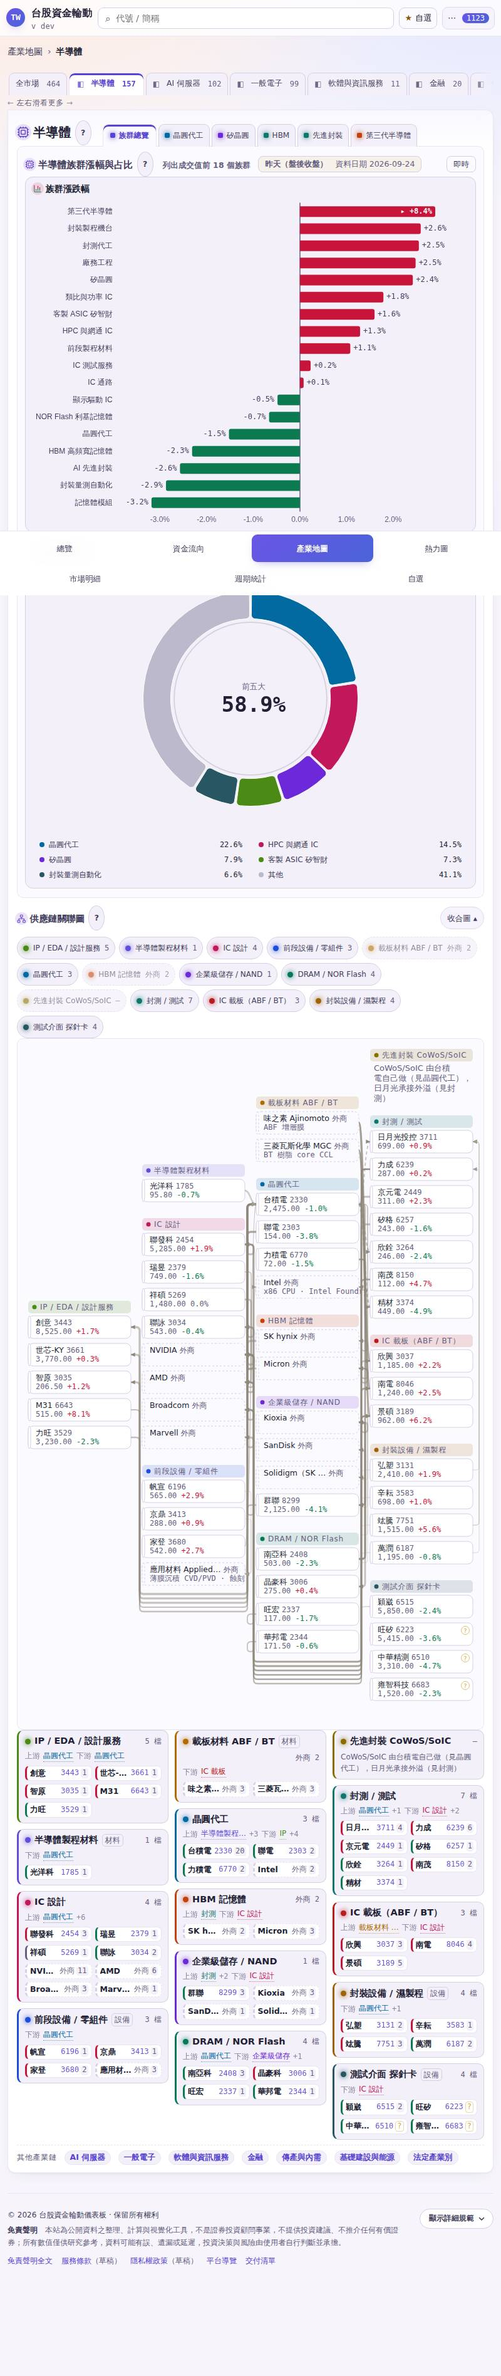
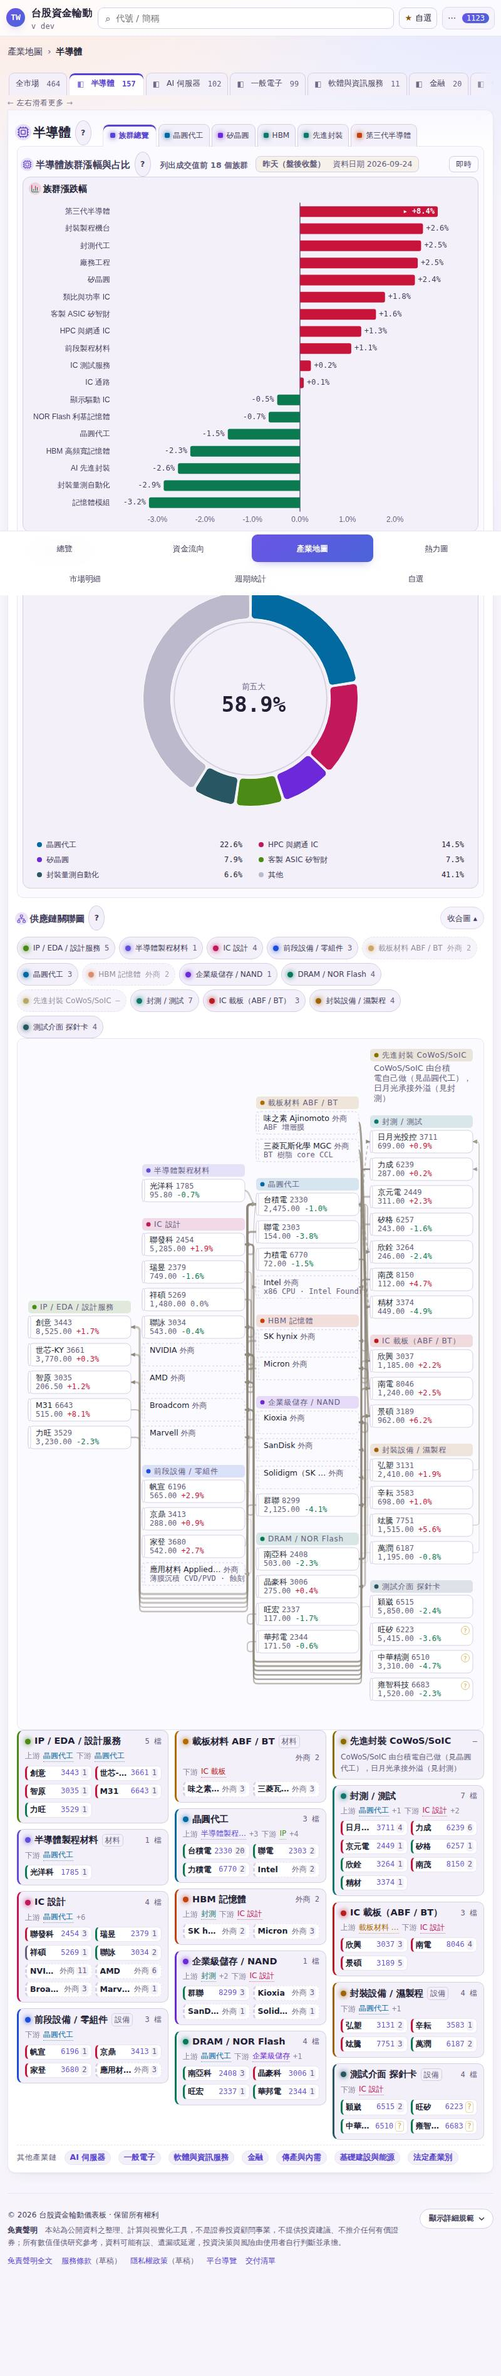
設計 v4 2B 收尾：04 文件定稿（改前→改後量測、三主題截圖、驗收段落、待處理）、HANDOFF
Claude-Session: https://claude.ai/code/session_01Ec3nixKoDJAmaCQB9Rr9xU

diff --git a/docs/design_v4/04_第二批2B.md b/docs/design_v4/04_第二批2B.md
@@ -22,6 +22,7 @@
 | ⑩ | 供應鏈關聯圖的「環節：全部 ▾」下拉 | 標題列下面自己一列（≈41px） | 桌機（≥821，下拉只有桌機是一顆鈕）搬進「供應鏈關聯圖」標題列、標題右邊；≤820 搬回原位（那裡是一排色標）。id、事件、選取邏輯一行都沒換 | `industry.js`（renderChain）、`theme4.css` |
 | ⑪ | 12px 下限（產業頁） | 活頁簿分頁上的檔數 11.5、關聯圖公司卡（展開）第二行的代號／股價／漲跌 11 | 12（桌機）。關聯圖卡片的字寬本來就用畫布實際量、欄寬 136～260，放得下 | `theme4.css` |
 | ⑫ | 產業頁間距套 v4 尺度 | 族群總覽卡片內距 10／12／8、`.nbbody` 10／12／14、關聯圖區塊上距 16 | 8／12／8、8／12／12、12（全部落在 4／8／12／16／24）。`.nbbody` 上內距原本想用 12，量過 800 寬剖析圖第一屏少 0.7 個百分點（退步），改成 8 | `theme4.css` |
+| ⑬ | 收尾修正：個股頁 HTML 圖例（①） | 點了之後狀態沒記住（聽錯 ECharts 事件名），切 12／24 月重畫後藏起來的線跑回來；只在視窗縮放時重量；手機也搬進標題列 | 先記狀態再送 action、三種選取事件都聽；盯標題列本身的尺寸重量；手機（≤640）不搬圖例、大戶／散戶色塊留在標題下面（DOM 跟改前一樣） | `industry.js`（extLegend、tabHolders） |
 
 **刻意沒動**：`--dg-*`（剖析圖，art-director）與剖析圖內部版面、供應鏈關聯圖 SVG 的版面演算法（關聯圖左上的空白是「每欄各自垂直置中」造成的：SVG 總高由最高那一欄決定，改成頂端對齊只是把空白從上面搬到下面、總高不變，第一屏繪圖區也不會變，所以不動；`_uitest` 還有一整串依位置寫的斷言）、關聯圖框裡的「全部展開／收合」列（驗收一律用 `#chainMap .foldbar` 找它，而且那列同時是 SVG 上方的留白，搬走要連 `padY` 一起改、第一屏只多 6px）、產業地圖的麵包屑（「產業地圖 › 半導體」：程式註解明講更深的層級是導覽不是標題）、手機（≤640）版面、AI 分析區塊（`blocks/stock_ai.js`，內容區 132px 是它自己的規格，`_uitest`「AI 分析」要求 120～420）、`app.js`／`index.html`／`live.js`（另外兩位 agent 在改）。
 
@@ -40,15 +41,79 @@
 
 （`卡頂→圖`＝卡片頂到卡片裡第一張圖的繪圖區頂端，中位數；空白帶％改前改後都一樣，第一批已經歸零，只列有差的）
 
-__TABLE__
+| 頁面 | 寬 | 第一屏繪圖區 % | 整頁繪圖區 % | 頁高 px | 空白帶 % | 卡頂→圖 px | 分頁區頂 px | 分頁區繪圖 % | 分頁卡頂→圖 px |
+|---|---|---|---|---|---|---|---|---|---|
+| 個股・總覽 | 1440 | 48.9 → **52.8**（+3.9） | 33.0 → **33.9**（+0.9） | 1788 → **1749**（-39） | 0.0 → **0.0** | 285 → **247**（-38） | 1205 → **1166**（-39） | 0.0 → **0.0** | None → None |
+| 個股・總覽 | 1100 | 43.7 → **43.7** | 29.8 → **30.0**（+0.2） | 1886 → **1885**（-1） | 0.0 → **0.0** | 321 → **320**（-1） | 1240 → **1239**（-1） | 0.0 → **0.0** | None → None |
+| 個股・總覽 | 800 | 36.4 → **41.6**（+5.2） | 24.3 → **24.9**（+0.6） | 2203 → **2145**（-58） | 1.6 → **1.6** | 403 → **346**（-57） | 1288 → **1230**（-58） | 0.0 → **0.0** | None → None |
+| 個股・總覽 | 390 | 32.2 → **32.2** | 22.1 → **22.1** | 1229 → **1229** | 0.0 → **0.0** | 118 → **118** | None → None | None → None | None → None |
+| 個股・營收 | 1440 | 48.9 → **52.8**（+3.9） | 32.7 → **34.8**（+2.1） | 2288 → **2250**（-38） | 0.0 → **0.0** | 119 → **99**（-20） | 1205 → **1166**（-39） | 18.6 → **22.3**（+3.7） | 119 → **99**（-20） |
+| 個股・營收 | 1100 | 43.7 → **43.7** | 29.9 → **31.2**（+1.3） | 2358 → **2357**（-1） | 0.0 → **0.0** | 153 → **153** | 1240 → **1239**（-1） | 16.5 → **19.6**（+3.1） | 153 → **153** |
+| 個股・營收 | 800 | 36.4 → **41.6**（+5.2） | 29.6 → **31.4**（+1.8） | 2904 → **2846**（-58） | 1.1 → **1.1** | 135 → **115**（-20） | 1288 → **1230**（-58） | 26.0 → **28.6**（+2.6） | 134 → **115**（-19） |
+| 個股・營收 | 390 | 32.2 → **32.2** | 22.1 → **22.1** | 1229 → **1229** | 0.0 → **0.0** | 118 → **118** | None → None | None → None | None → None |
+| 個股・獲利 | 1440 | 48.9 → **52.8**（+3.9） | 36.8 → **37.6**（+0.8） | 2715 → **2676**（-39） | 0.0 → **0.0** | 105 → **105** | 1205 → **1166**（-39） | 32.2 → **32.7**（+0.5） | 105 → **105** |
+| 個股・獲利 | 1100 | 43.7 → **43.7** | 32.8 → **33.9**（+1.1） | 2893 → **2892**（-1） | 0.0 → **0.0** | 151 → **151** | 1240 → **1239**（-1） | 27.6 → **29.7**（+2.1） | 105 → **105** |
+| 個股・獲利 | 800 | 36.4 → **41.6**（+5.2） | 32.9 → **33.5**（+0.6） | 3329 → **3271**（-58） | 1.0 → **1.0** | 113 → **113** | 1288 → **1230**（-58） | 33.6 → **33.4**（-0.2） | 112 → **113**（+1） |
+| 個股・獲利 | 390 | 32.2 → **32.2** | 22.1 → **22.1** | 1229 → **1229** | 0.0 → **0.0** | 118 → **118** | None → None | None → None | None → None |
+| 個股・除權息 | 1440 | 48.9 → **52.8**（+3.9） | 36.1 → **37.8**（+1.7） | 1852 → **1814**（-38） | 0.0 → **0.0** | 285 → **247**（-38） | 1205 → **1166**（-39） | 18.9 → **21.9**（+3.0） | 75 → **57**（-18） |
+| 個股・除權息 | 1100 | 43.7 → **43.7** | 33.6 → **33.9**（+0.3） | 1888 → **1887**（-1） | 0.0 → **0.0** | 321 → **320**（-1） | 1240 → **1239**（-1） | 17.5 → **17.8**（+0.3） | 75 → **75** |
+| 個股・除權息 | 800 | 36.4 → **41.6**（+5.2） | 29.3 → **30.4**（+1.1） | 2389 → **2346**（-43） | 1.4 → **1.4** | 403 → **346**（-57） | 1288 → **1230**（-58） | 21.9 → **23.7**（+1.8） | 68 → **65**（-3） |
+| 個股・除權息 | 390 | 32.2 → **32.2** | 22.1 → **22.1** | 1229 → **1229** | 0.0 → **0.0** | 118 → **118** | None → None | None → None | None → None |
+| 個股・法人 | 1440 | 48.9 → **52.8**（+3.9） | 37.7 → **39.3**（+1.6） | 2199 → **2161**（-38） | 0.0 → **0.0** | 285 → **247**（-38） | 1205 → **1166**（-39） | 31.4 → **33.7**（+2.3） | 79 → **59**（-20） |
+| 個股・法人 | 1100 | 43.7 → **43.7** | 35.3 → **36.2**（+0.9） | 2235 → **2234**（-1） | 0.0 → **0.0** | 321 → **320**（-1） | 1240 → **1239**（-1） | 30.0 → **32.1**（+2.1） | 79 → **59**（-20） |
+| 個股・法人 | 800 | 36.4 → **41.6**（+5.2） | 30.9 → **32.3**（+1.4） | 2406 → **2349**（-57） | 1.4 → **1.4** | 403 → **346**（-57） | 1288 → **1230**（-58） | 27.3 → **29.2**（+1.9） | 87 → **67**（-20） |
+| 個股・法人 | 390 | 32.2 → **32.2** | 22.1 → **22.1** | 1229 → **1229** | 0.0 → **0.0** | 118 → **118** | None → None | None → None | None → None |
+| 個股・資券 | 1440 | 48.9 → **52.8**（+3.9） | 37.8 → **39.5**（+1.7） | 2199 → **2161**（-38） | 0.0 → **0.0** | 285 → **247**（-38） | 1205 → **1166**（-39） | 31.8 → **34.1**（+2.3） | 79 → **59**（-20） |
+| 個股・資券 | 1100 | 43.7 → **43.7** | 35.5 → **36.4**（+0.9） | 2235 → **2234**（-1） | 0.0 → **0.0** | 321 → **320**（-1） | 1240 → **1239**（-1） | 30.5 → **32.7**（+2.2） | 79 → **59**（-20） |
+| 個股・資券 | 800 | 36.4 → **41.6**（+5.2） | 31.3 → **32.7**（+1.4） | 2406 → **2349**（-57） | 1.4 → **1.4** | 403 → **346**（-57） | 1288 → **1230**（-58） | 28.4 → **30.4**（+2.0） | 87 → **67**（-20） |
+| 個股・資券 | 390 | 32.2 → **32.2** | 22.1 → **22.1** | 1229 → **1229** | 0.0 → **0.0** | 118 → **118** | None → None | None → None | None → None |
+| 個股・大戶／散戶 | 1440 | 48.9 → **52.8**（+3.9） | 37.2 → **39.0**（+1.8） | 2240 → **2155**（-85） | 0.0 → **0.0** | 285 → **247**（-38） | 1205 → **1166**（-39） | 30.4 → **32.7**（+2.3） | 125 → **79**（-46） |
+| 個股・大戶／散戶 | 1100 | 43.7 → **43.7** | 35.0 → **35.4**（+0.4） | 2275 → **2268**（-7） | 0.0 → **0.0** | 321 → **320**（-1） | 1240 → **1239**（-1） | 29.6 → **30.2**（+0.6） | 125 → **119**（-6） |
+| 個股・大戶／散戶 | 800 | 36.4 → **41.6**（+5.2） | 31.2 → **31.9**（+0.7） | 2446 → **2383**（-63） | 1.4 → **1.4** | 403 → **346**（-57） | 1288 → **1230**（-58） | 28.3 → **28.5**（+0.2） | 133 → **127**（-6） |
+| 個股・大戶／散戶 | 390 | 32.2 → **32.2** | 22.1 → **22.1** | 1229 → **1229** | 0.0 → **0.0** | 118 → **118** | None → None | None → None | None → None |
+| 產業地圖 | 1440 | 41.5 → **41.5** | 34.7 → **38.7**（+4.0） | 1077 → **965**（-112） | 0.0 → **0.0** | 122 → **79**（-43） | None → None | None → None | None → None |
+| 產業地圖 | 1100 | 38.1 → **38.1** | 31.8 → **35.5**（+3.7） | 1077 → **965**（-112） | 0.0 → **0.0** | 122 → **79**（-43） | None → None | None → None | None → None |
+| 產業地圖 | 800 | 41.6 → **43.2**（+1.6） | 41.1 → **43.1**（+2.0） | 1794 → **1712**（-82） | 0.0 → **0.0** | 138 → **127**（-11） | None → None | None → None | None → None |
+| 產業地圖 | 390 | 19.7 → **19.7** | 21.9 → **21.9** | 1866 → **1866** | 0.0 → **0.0** | 193 → **193** | None → None | None → None | None → None |
+| 產業鏈・半導體 | 1440 | 65.1 → **68.4**（+3.3） | 60.8 → **63.8**（+3.0） | 1857 → **1777**（-80） | 0.0 → **0.0** | 127 → **93**（-34） | None → None | None → None | None → None |
+| 產業鏈・半導體 | 1100 | 63.7 → **66.9**（+3.2） | 61.6 → **64.2**（+2.6） | 1967 → **1888**（-79） | 0.0 → **0.0** | 127 → **93**（-34） | None → None | None → None | None → None |
+| 產業鏈・半導體 | 800 | 55.2 → **59.4**（+4.2） | 76.5 → **77.2**（+0.7） | 4552 → **4506**（-46） | 0.0 → **0.0** | 345 → **303**（-42） | None → None | None → None | None → None |
+| 產業鏈・半導體 | 390 | 37.6 → **37.6** | 83.6 → **83.6** | 2364 → **2364** | 0.0 → **0.0** | 323 → **323** | None → None | None → None | None → None |
+| 產業鏈・一般電子 | 1440 | 65.1 → **68.4**（+3.3） | 57.4 → **60.2**（+2.8） | 1671 → **1592**（-79） | 0.0 → **0.0** | 127 → **93**（-34） | None → None | None → None | None → None |
+| 產業鏈・一般電子 | 1100 | 63.7 → **64.9**（+1.2） | 58.2 → **61.1**（+2.9） | 1772 → **1692**（-80） | 0.0 → **0.0** | 127 → **93**（-34） | None → None | None → None | None → None |
+| 產業鏈・一般電子 | 800 | 55.2 → **55.2** | 71.5 → **71.5** | 3194 → **3188**（-6） | 0.0 → **0.0** | 289 → **287**（-2） | None → None | None → None | None → None |
+| 產業鏈・一般電子 | 390 | 37.6 → **37.6** | 89.2 → **89.2** | 2216 → **2216** | 0.0 → **0.0** | 323 → **323** | None → None | None → None | None → None |
+| 產業鏈・半導體（族群總覽） | 1440 | 39.7 → **39.7** | 46.9 → **51.4**（+4.5） | 1810 → **1652**（-158） | 0.0 → **0.0** | 199 → **122**（-77） | None → None | None → None | None → None |
+| 產業鏈・半導體（族群總覽） | 1100 | 36.0 → **36.0** | 46.2 → **50.4**（+4.2） | 1871 → **1713**（-158） | 0.0 → **0.0** | 199 → **122**（-77） | None → None | None → None | None → None |
+| 產業鏈・半導體（族群總覽） | 800 | 35.0 → **36.0**（+1.0） | 44.0 → **45.6**（+1.6） | 3919 → **3792**（-127） | 0.0 → **0.0** | 234 → **149**（-85） | None → None | None → None | None → None |
+| 產業鏈・半導體（族群總覽） | 390 | 10.7 → **10.7** | 11.8 → **11.8** | 2982 → **2982** | 0.0 → **0.0** | 306 → **306** | None → None | None → None | None → None |
+| 產業鏈・AI 伺服器 | 1440 | 65.1 → **68.4**（+3.3） | 65.3 → **67.8**（+2.5） | 2136 → **2057**（-79） | 0.0 → **0.0** | 127 → **93**（-34） | None → None | None → None | None → None |
+| 產業鏈・AI 伺服器 | 1100 | 63.7 → **66.9**（+3.2） | 66.5 → **68.9**（+2.4） | 2325 → **2245**（-80） | 0.0 → **0.0** | 127 → **93**（-34） | None → None | None → None | None → None |
+| 產業鏈・AI 伺服器 | 800 | 55.2 → **55.2** | 72.6 → **72.6** | 4740 → **4734**（-6） | 0.0 → **0.0** | 310 → **308**（-2） | None → None | None → None | None → None |
+| 產業鏈・AI 伺服器 | 390 | 37.6 → **37.6** | 94.2 → **94.2** | 2262 → **2262** | 0.0 → **0.0** | 323 → **323** | None → None | None → None | None → None |
 
 ### 2.2 逐張圖（1440）
 
-__CHARTS__
+| 圖 | 分頁 | 繪圖區頂 | 繪圖區佔容器 % | 圖例在容器裡 | 軸字最小 |
+|---|---|---|---|---|---|
+| revBar | 個股・營收 | 30 → **10**（-20） | 64.2 → **70.6**（+6.4） | 是 → 否 | 12 → **12** |
+| revYear | 個股・營收 | 30 → **10**（-20） | 67.7 → **76.2**（+8.5） | 是 → 否 | 12 → **12** |
+| peChart | 個股・獲利 | 24 → **24** | 75.8 → **75.8** | 否 → 否 | 12 → **12** |
+| profitChart | 個股・獲利 | 30 → **30** | 65.3 → **65.3** | 是 → 是 | 12 → **12** |
+| peQ | 個股・獲利 | 20 → **20** | 72.3 → **72.5**（+0.2） | 否 → 否 | 12 → **12** |
+| divBar | 個股・除權息 | 30 → **12**（-18） | 66.7 → **73.5**（+6.8） | 是 → 否 | 12 → **12** |
+| instChart | 個股・法人 | 30 → **10**（-20） | 73.7 → **79**（+5.3） | 是 → 否 | 12 → **12** |
+| marginChart | 個股・資券 | 30 → **10**（-20） | 74.9 → **80.3**（+5.4） | 是 → 否 | 12 → **12** |
+| holderChart | 個股・大戶／散戶 | 30 → **30** | 61.3 → **61.3** | 否 → 否 | 11 → **12** |
+| gpBar | 產業地圖 | 8 → **8** | 72.9 → **72.9** | 否 → 否 | 12 → **12** |
+| gpPie | 產業地圖 | None → None | 0 → **0** | 否 → 否 | None → None |
+| gpBar | 產業鏈・半導體（族群總覽） | 8 → **8** | 69.8 → **69.8** | 否 → 否 | 12 → **12** |
+| gpPie | 產業鏈・半導體（族群總覽） | None → None | 0 → **0** | 否 → 否 | None → None |
 
 ### 2.3 K 線（1440，個股頁第一屏）
 
-__KLINE__
+- 改前：面板高 [587, 96]、資料區頂（離面板頂）[47, 8]，副圖標籤（字、離圖頂 y、高、字級）[('成交量 1.5 萬張\u3000MA20 ', 595, 23, 12)]
+- 改後：面板高 [564, 119]、資料區頂（離面板頂）[45, 24]，副圖標籤（字、離圖頂 y、高、字級）[('成交量 1.5 萬張\u3000MA20 ', 569, 18, 12)]
 
 ### 2.4 怎麼讀
 
@@ -59,13 +124,17 @@ __KLINE__
    1100 寬營收、除權息兩張半寬卡、800 寬 EPS 也是同樣情形，數字持平；分頁區繪圖 % 仍然上升，是 ⑦（較矮那張的圖撐滿）的貢獻。
 4. **大戶／散戶**：1440 分頁卡頂→圖 125 → 79（-46）、頁高 -85。
 5. **800 獲利分頁的分頁區繪圖 % 33.6 → 33.4（-0.2）、分頁卡頂→圖 112 → 113**：三張圖的尺寸與繪圖區逐張比對完全一樣（`2b-*.json` 的 charts），差的 1px 在分頁區上方的數字卡列（字寬捨入）；不是版面退步，列在這裡不藏。
-6. **產業地圖、產業鏈：數字不變**。這兩頁本批只有軸字 11.5 → 12（族群長條），繪圖區量法不受影響；版面的空間在第一批已經收過（產業鏈 1440 第一屏 61.5 → 65.1）。
-7. **390 全部不變**（手機不在這一批，驗證用）。
+6. **產業地圖（⑧）：頁高 1077 → 965（-112）、卡頂→圖 122 → 79**，整頁繪圖區 34.7 → 38.7。1440／1100 第一屏持平（41.5／38.1）是正常的：改前整張族群總覽卡（長條＋甜甜圈）本來就完整落在第一屏裡（卡底 860 < 900），省下來的三列變成「卡片短了一截、頁尾上來」，圖本身沒有變大。800 寬第一屏 41.6 → 43.2（堆疊的兩張卡往上 11px）。
+7. **產業鏈族群總覽分頁（⑧⑨⑩ 都在這一頁）：卡頂→圖 199 → 122（-77）、頁高 -158**；1440 改前長條卡底貼在 877、下面再一條空白列才到卡底 930，改後整張卡在 818 收掉，第一屏看得到關聯圖的標題列與下拉。第一屏繪圖區持平的理由同上（兩張圖改前就整張在第一屏）。
+8. **產業鏈（預設剖析圖分頁）：第一屏 1440 65.1 → 68.4、1100 63.7 → 66.9、800 半導體 55.2 → 59.4**（⑨ 標題與分頁同一列，剖析圖往上 34px）。一般電子 1100 只 +1.2：那條鏈 1100 寬放得下同列、但剖析圖本身比視窗矮，往上移的部分落在圖下方。
+9. **800 寬一般電子、AI 伺服器：⑨ 放不下（分頁 7～9 顆＋標題 > 卡寬），照改前兩列**，第一屏持平（55.2 → 55.2），頁高 -6（`.nbbody` 上下內距）。第一版把 `.nbbody` 左右內距也統一成 12，量到這兩頁 55.2 → 54.9（641～820 原本左右 8，多出的 4px 把剖析圖的引線層擠窄）——退步，改成只動上下內距，重量後持平（上表）。
+10. **390 全部不變**（手機不在這一批，驗證用；⑧⑩ 的搬位置在 ≤640／≤820 用 matchMedia 搬回改前的位置）。
 
 ## 3. 三主題 × 深淺
 
-截圖：`shots/2b-{casual-light|hud-dark|pro-light}-{stock|industry|chain}-{1440|1100|800|390}.jpg`（36 張）、另三組（休閒深、HUD 淺、專業深）個股頁 1440、改前 `shots/2b-before-hud-dark-stock-*.jpg`。
-個股頁一律開在「營收」分頁（新圖例最多的一頁）。
+截圖：`shots/2b-{casual-light|hud-dark|pro-light}-{stock|industry|chain}-{1440|1100|800|390}.jpg`（36 張，整頁）、另三組明暗（`2b-casual-dark`／`2b-hud-light`／`2b-pro-dark`）的個股頁與產業鏈 1440、改前 `shots/2b-before-hud-dark-{stock|industry|chain}-*.jpg`（12 張，origin/main `fa2a991`）。
+個股頁一律開在「營收」分頁（新圖例最多的一頁）；`chain`＝`#industry/semiconductor/overview`（族群總覽＋關聯圖，⑧⑨⑩ 同時在畫面上）。
+產業頁（⑧～⑫）沒有新增任何色碼：資料狀態膠囊沿用 `.livenote` 原本的底色與字色、搬進標題列只改外距與內距；滑過讀數字色沿用 `.card .sub`（`--ink-3`，第一批量過六組主題 ≥ 4.5）。
 驗收段落「設計v4第二批2B」⑨ 在六組主題各開一次個股頁營收分頁：1440 沒有橫向捲軸、主題真的掛上、兩張營收圖的 HTML 圖例字對實際疊出來的底色對比 ≥ 4.5。
 沒有新增任何色碼：圖例色樣讀 ECharts 算好的系列顏色；紅買綠賣的雙色色樣用 `A.CH.up`／`A.CH.down`（跟著主題換）；EPS 雙色沿用那張圖本來寫死的兩個色。
 
@@ -77,16 +146,48 @@ __KLINE__
 4. **641～820 現價列小標不再是 36px 高**：它們是資訊標籤不是按鈕；觸控 36px 的規則（index.html 那段）是給篩選晶片的。
 5. **除權息年份縮成 'YY 的門檻從「容器 < 420」改成「一格放不下四位數」**：1100 寬半欄卡片也會縮（改前在那裡疊字）。
 6. **營收柱不標數字**：改前的自動標籤是原值（元，12 位數），不是設計；要標的話應該標「億」而且只標最新幾根，那是新功能，這一批不做。
+7. **產業地圖第一屏繪圖區沒有變大（只有頁高變短）**：省下的 112px 可以拿去把長條／甜甜圈撐到視窗底，但那要讓圖高跟著視窗高變（現在是依族群數 `n×26+56`），視窗一縮放就要重畫、長條會變胖。這一批只收空白、不改圖高；要的話下一批做成「圖高＝max(依族群數, 視窗剩餘高)」。
+8. **滑過讀數搬到「族群漲跌幅」卡片標題列右半邊**：1100 以下寬度會被省略號切掉尾巴（「點一下看它的個股」那段提示先被切）；同樣的數字滑過長條時提示框裡都有。改前它在圖下方獨佔一列、沒滑過時是一條 24px 空白。
+9. **鏈名標題與二層分頁同一列時，內容框左上角改成圓角**：分頁不再從最左邊開始，左上角維持直角會像缺一角。活頁簿「選中分頁與內容連成一片」的效果不受影響（選中那一格照樣疊在內容上緣）。
+10. **「環節：全部 ▾」搬進關聯圖標題列**：只有桌機；它跟「收合圖 ▴」現在在同一列的兩端。
 
 ## 5. 驗了哪幾段
 
-__GATES__
+收尾這一輪（2026-09-29 04:02～06:55 台北；分支已合併 origin/main `fa2a991`；`site/data` 沿用 09-28 13:08 那份、沒重算 —— 本批沒動 `pipeline/`、`groups/*.yaml`、`build_payload.py`）。
+純前端＋驗收腳本＋文件，pytest 依 CLAUDE.md 例外跳過（`git diff --name-only origin/main` 只有 `site/**`、`scripts/_uitest.py`、`docs/**`）。
+
+| 關卡 | 結果 |
+|---|---|
+| `_preview.py`（預設科技 HUD・深） | 綠（每改一次跑一次，共五次，最後一次在最後一個 commit 之後） |
+| `_uitest` 設計v4第二批2B（含收尾新加的 ⑩：產業地圖三列收進既有列、滑過讀數不跳版、縮到 600 搬回改前位置再拉回、產業鏈標題與分頁同列只在放得下時成立、標題列的環節下拉真的選得到一格、≤820 搬回、分頁檔數與關聯圖卡片字 ≥ 12） | 第一輪 13 紅（見下）→ 修完 0；之後每改一次重跑都是 0 |
+| `_uitest` 個股／新-產業與個股／營收河流0928／個股籌碼分頁0928／手機個股券商式／手機（最後一個 commit 之後） | 0 |
+| `_uitest` 產業／族群頁／產業鏈導覽／產業關係面板（產業頁最後一次 CSS 改動之後） | 0 |
+| `_uitest` K線縮放／設計v4主題（第一輪） | 0 |
+| `_uitest` 標題圖示 | **2 紅，沒收斂**（見下） |
+| `_uitest` 一般電子鏈 | 12 紅 ＝ **origin/main `fa2a991` 同一份資料一模一樣 12 紅**（`git archive` 出 main 整包、同一支 `_uitest.py` 跑） |
+| `_uitest` 排序 | 1 紅 ＝ **origin/main 同樣 1 紅**（`#candTable thead th[data-k="code"]` 等 30 秒點不到） |
+| `_uitest` 產業（任務單說 `#segBox` 是 main 既有紅） | 這一輪分支、main 各跑一次都是 0（沒有重現） |
+
+- **設計v4第二批2B 第一輪 13 紅＝重啟前那一版自己的缺陷，收尾修掉**：
+  1. 個股頁 HTML 圖例點了之後狀態沒記住：`extLegend` 只聽 `legendselectchanged`，但 ECharts 對 `legendSelect`／`legendUnSelect` 發的是 `legendselected`／`legendunselected` ——
+     按鈕的 `aria-pressed` 不變、切 12／24 月重畫之後藏起來的線又跑回來（**使用者踩得到的 bug**）。改成先記自己的狀態再送 action，三種事件都聽。
+  2. 放得下的圖例初始沒有標 `data-fit="row"`（`extLegFit` 只在狀態改變時寫）→ 驗收讀不到狀態。
+  3. 驗收的 `legShown` 要求 `legend.data` 非空，但這幾張圖的 option 沒寫 `data`（ECharts 自己列全部系列）→ 放不下時明明畫了圖例卻判成沒畫；②「EPS 與三率 1440 一定放得下」跟 §2.4 第 3 點的實測（1440 放不下、照改前畫）矛盾 —— 改成跟 ⑧ 同一個「放得下／放不下」判準。
+  4. 另外補兩件：圖例改成盯標題列本身的尺寸重量（標題圖示、日期是圖畫完才補進標題的，只在視窗縮放時量會「量的時候放得下、補完就被擠到下一行」）；手機（≤640）不搬圖例、大戶／散戶三顆色塊留在標題下面（DOM 跟改前一樣）。
+- **標題圖示 2 紅（沒收斂）**：`390 dark 個股／分頁 margin`（標題列 44 → 84）、`390 dark 個股／分頁 holders`（32 → 59），都是「藏掉圖示 vs 顯示圖示」同一刻的 A/B。
+  - 關鍵差異：**main 同一段在 390 量到的是「個股 0、只有手機分頁」**（券商式已經接手、桌機分頁列看不到），**分支這一段在 390 量到了桌機分頁（個股 3、分頁 tags…news）**——紅的兩條都發生在「390 寬卻看得到桌機分頁」這個狀態裡。
+  - 正常載入（390、載入後切主題、0.3／1.2／3／6 秒各量一次）分支與 main **完全一樣**：桌機分頁列一直看不到、`mbon` 一直在（`dbg4`）。所以這個狀態是驗收流程的暫態（同一個分頁從別的寬度切過來），使用者正常開啟不會進去。
+  - 手機這一批已經改回跟 main 同一份 DOM（圖例不搬、色塊不搬），仍然紅 → 差異不在這兩列本身。追根因超過 10 分鐘上限，停在這裡，記進待處理。
+- **一般電子鏈 12 紅（main 既有）**：點環節後 `#segBox` 沒有列出個股連結（鴻海／智邦／面板雙虎、被動元件、兩格只有外商的說明框）、題材頁 4 個新題材找不到成分股。
 
 ## 6. 沒做到／留給下一批
 
 | 項目 | 為什麼沒做 | 建議 |
 |---|---|---|
 | 1100 寬個股頁 K 線卡再往上 | 左欄（名稱列、工具列各兩行）已經比 AI 區高；要動 AI 區寬度或名稱列 | 名稱列的「題材」連結收成「題材 3 ▾」下拉，工具列在 < 1200 拿掉「四週期同看」字只留圖示 |
-| 產業鏈供應鏈關聯圖左上空白 | 欄位垂直置中造成；改演算法風險高 | 關聯圖改「頂端對齊＋欄高不同時從上排」，要連 `_uitest` 的位置斷言一起改 |
+| 產業鏈供應鏈關聯圖左上空白 | 「每欄各自垂直置中」造成；SVG 總高由最高那一欄決定，改頂端對齊只是把空白搬到下面，總高、第一屏都不變 | 真要收得改成「欄高不同時兩欄疊一欄」的版面演算法，連 `_uitest` 的位置斷言一起改 |
+| 產業地圖圖高跟著視窗 | 見 §4 第 7 點：要改圖高的決定方式、視窗縮放要重畫 | 圖高＝max(依族群數, 視窗剩餘高)，做完用同一支工具量，退步就不上 |
+| 一般電子鏈驗收 12 紅、排序 1 紅 | **origin/main `fa2a991` 同一份資料一模一樣**（見 §5），不是這一批 | 一般電子鏈：環節詳情 `#segBox` 點環節後沒有列出個股連結、題材頁 4 個新題材找不到成分股；排序：`#candTable` 表頭點不到 —— 交給 CEO 另派 |
 | index.html 裡 79 處 < 12px 的 CSS 字級 | 不是本批範圍（任務只指定 industry.js 的軸字），且 index.html 另有 agent 在改 | 元件收斂那一批一起掃 |
 | EPS 與三率圖例 | 1440 標題列放不下（副標很長） | 副標「（至 … 法定應有到 …）」搬進「?」說明，圖例就放得下 |
+| 驗收「標題圖示」390 兩紅（資券、大戶／散戶標題列加圖示後變高） | 只在驗收流程「390 寬卻看得到桌機分頁」的暫態出現；正常載入分支與 main 行為一樣；手機 DOM 已改回跟 main 一樣仍紅，根因未找到（超過 10 分鐘上限） | 下一位接手：在 `_ti_measure_all` 量之前印 `body.className` 與 `#stockTabs` 可見度，比對 main 為什麼量到「個股 0」 |
